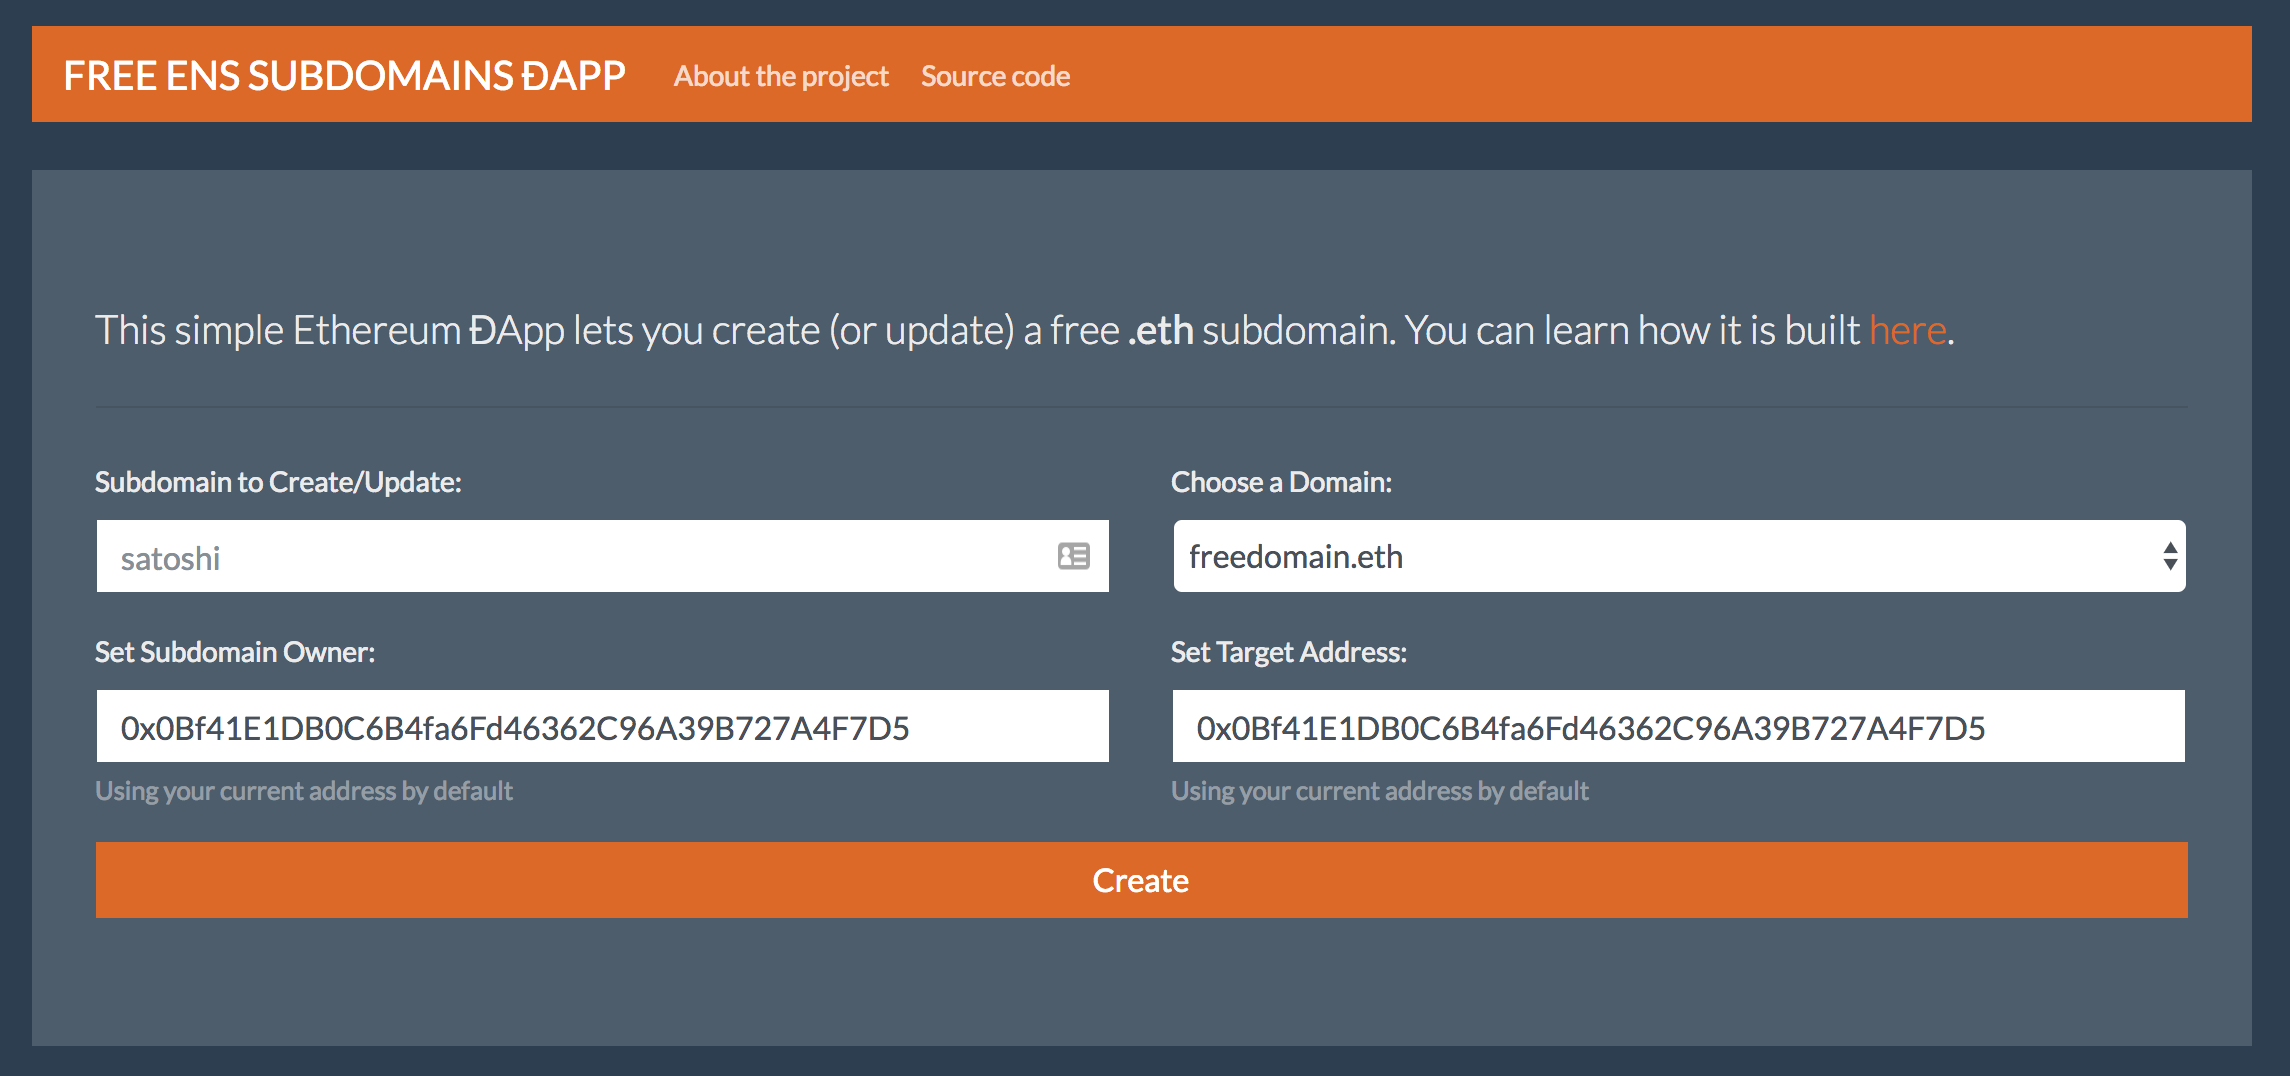
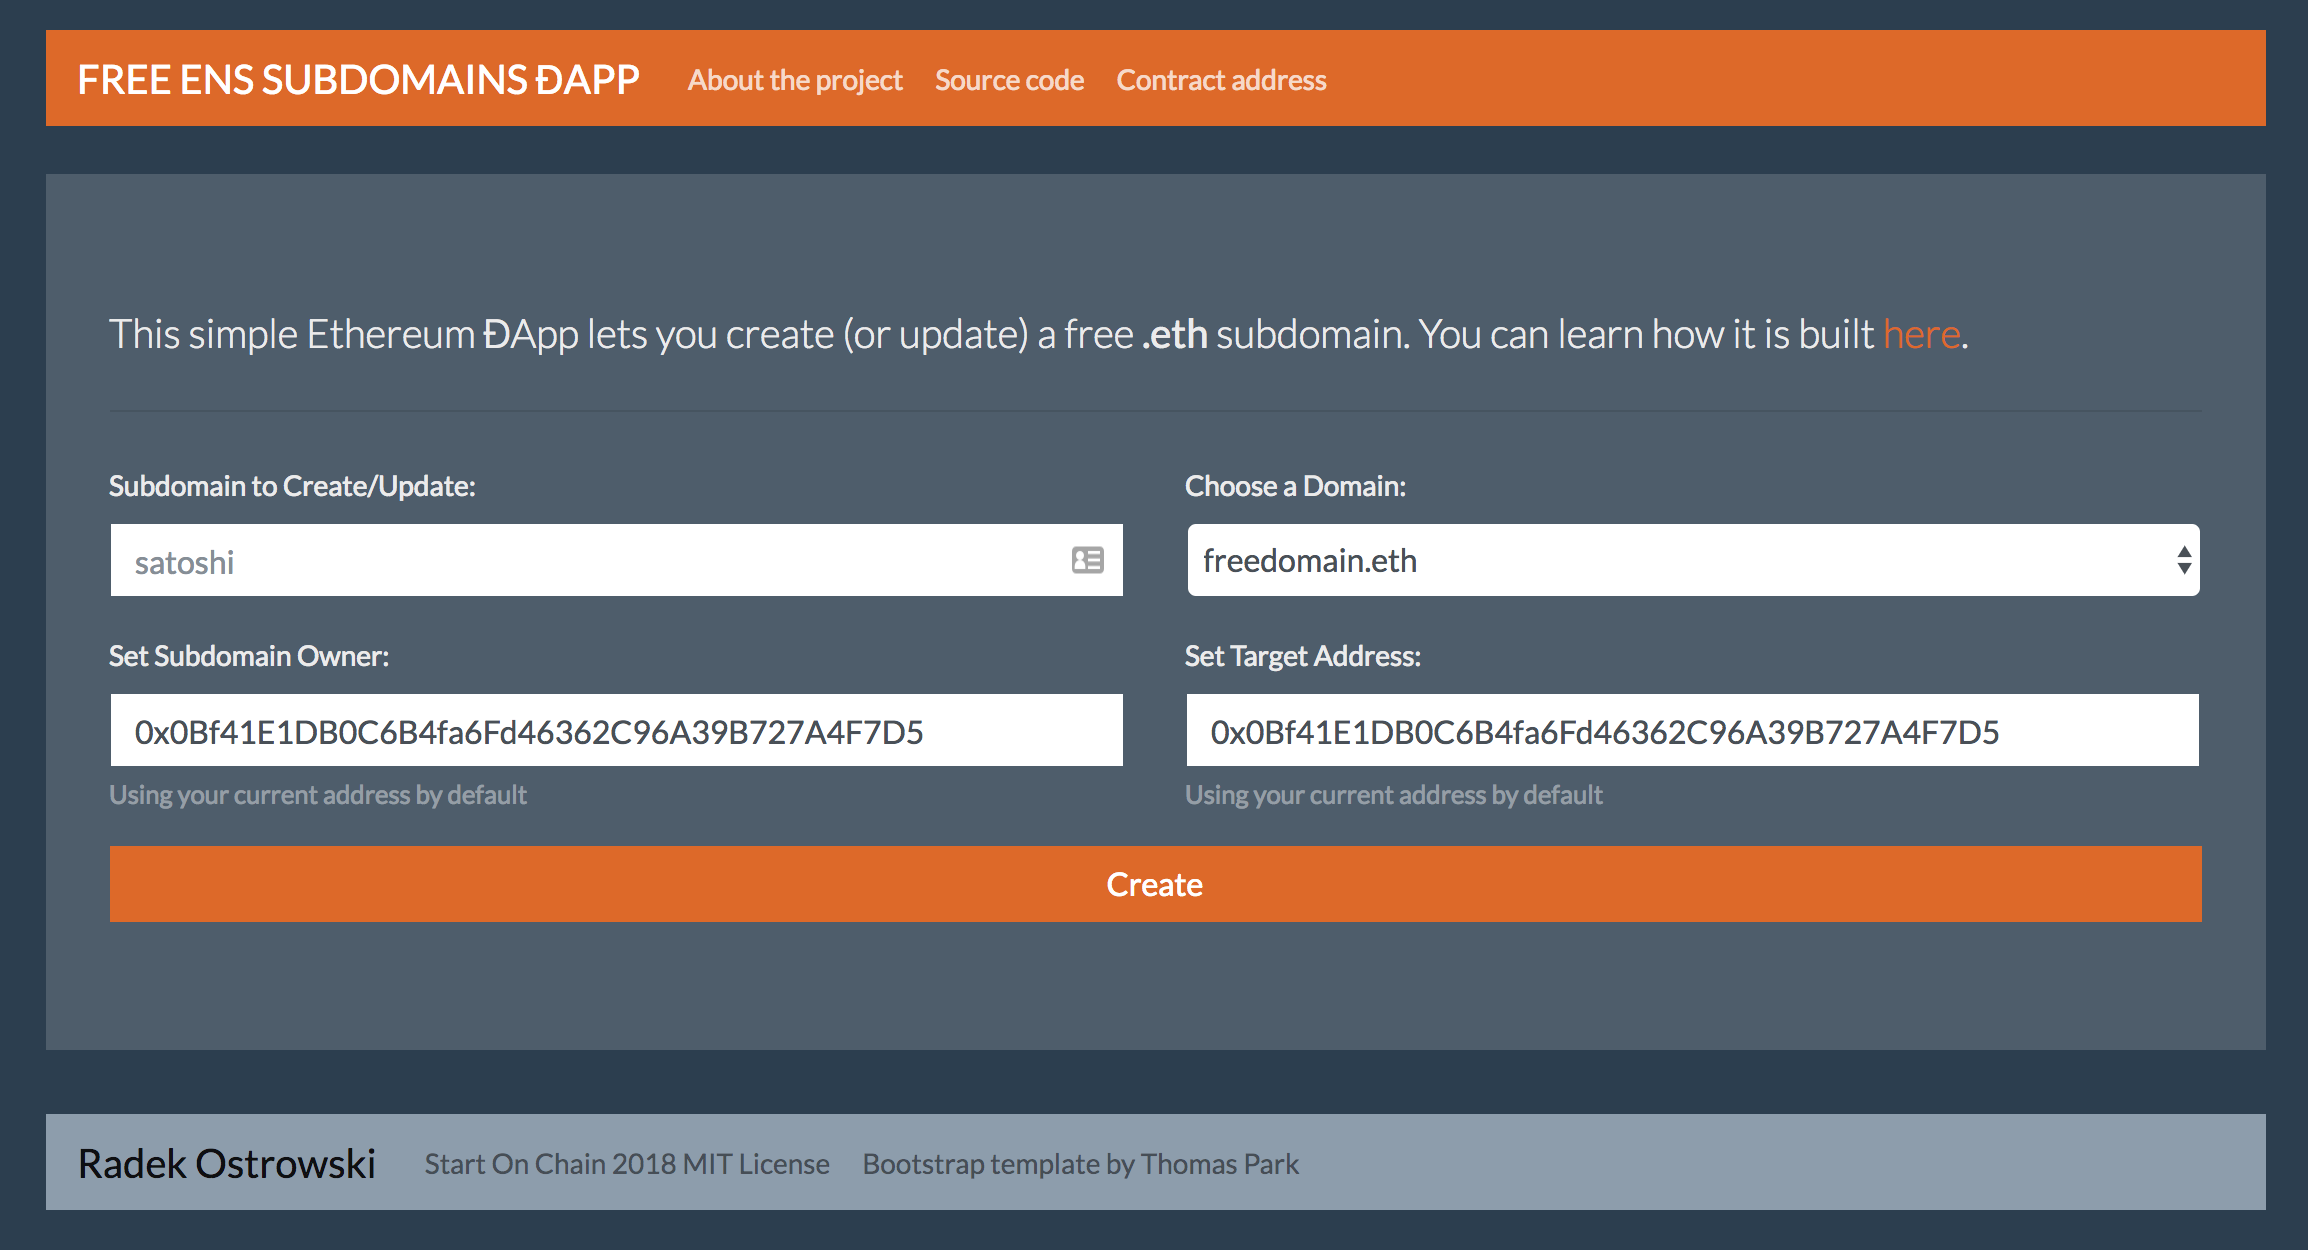
added link to etherscan

diff --git a/docs/index.html b/docs/index.html
@@ -31,6 +31,9 @@
           <li class="nav-item">
             <a class="nav-link" target="_blank" href="https://github.com/radek1st/ens-subdomain-factory">Source code</a>
           </li>
+          <li class="nav-item">
+            <a class="nav-link" target="_blank" href="https://etherscan.io/address/0x21aa8d3eee8be2333ed180e9a5a8c0729c9b652c#code">Contract address</a>
+          </li>
         </ul>
       </div>
     </nav>
